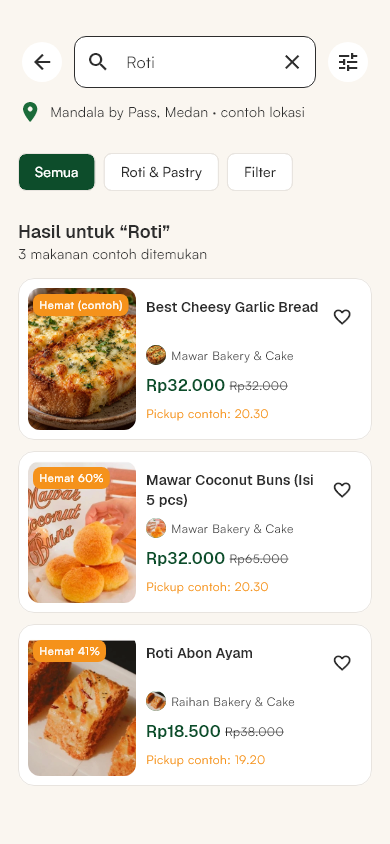
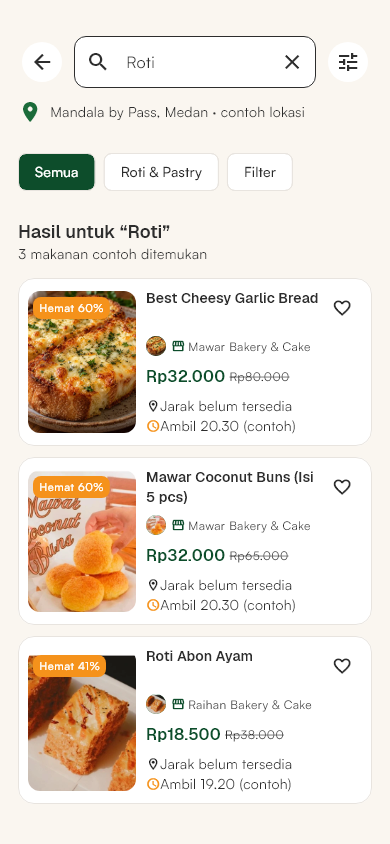
fix(discovery): address search review feedback

diff --git a/app/lib/features/discovery/search_page.dart b/app/lib/features/discovery/search_page.dart
@@ -18,6 +18,8 @@ const _badgeTopInset = 6.0;
 const _favoriteIconSize = 20.0;
 const _merchantAvatarRadius = 10.0;
 const _priceGap = 4.0;
+const _recommendationCount = 2;
+const _recommendationImageSize = 48.0;
 
 /// Search and filter preview over local listing examples.
 class SearchPage extends StatefulWidget {
@@ -34,6 +36,7 @@ class SearchPage extends StatefulWidget {
 class _SearchPageState extends State<SearchPage> {
   final TextEditingController _controller = TextEditingController();
   final _favorites = <String>{};
+  final _searchFocus = FocusNode();
   String _query = '';
   String _category = 'Semua';
   int? _minimum;
@@ -50,6 +53,7 @@ class _SearchPageState extends State<SearchPage> {
   @override
   void dispose() {
     _controller.dispose();
+    _searchFocus.dispose();
     super.dispose();
   }
 
@@ -104,6 +108,15 @@ class _SearchPageState extends State<SearchPage> {
     Navigator.pop(context);
   }
 
+  void _resetFilters() => setState(() {
+    _category = 'Semua';
+    _minimum = null;
+    _maximum = null;
+    _lowestPriceFirst = false;
+  });
+
+  void _editSearch() => _searchFocus.requestFocus();
+
   void _toggleFavorite(String id) => setState(
     () => _favorites.contains(id) ? _favorites.remove(id) : _favorites.add(id),
   );
@@ -120,6 +133,7 @@ class _SearchPageState extends State<SearchPage> {
           children: [
             _SearchBar(
               controller: _controller,
+              focusNode: _searchFocus,
               onChanged: (value) => setState(() => _query = value.trim()),
               onFilter: _openFilters,
             ),
@@ -140,6 +154,8 @@ class _SearchPageState extends State<SearchPage> {
             const SizedBox(height: 24),
             if (results.isEmpty)
               _EmptySearch(
+                onEditSearch: _editSearch,
+                onResetFilters: _resetFilters,
                 onSuggestion: (query) {
                   _controller.text = query;
                   setState(() => _query = query);
@@ -171,11 +187,13 @@ class _SearchPageState extends State<SearchPage> {
 class _SearchBar extends StatelessWidget {
   const new({
     required this.controller,
+    required this.focusNode,
     required this.onChanged,
     required this.onFilter,
   });
 
   final TextEditingController controller;
+  final FocusNode focusNode;
   final ValueChanged<String> onChanged;
   final VoidCallback onFilter;
 
@@ -195,6 +213,7 @@ class _SearchBar extends StatelessWidget {
       Expanded(
         child: TextField(
           controller: controller,
+          focusNode: focusNode,
           onChanged: onChanged,
           textInputAction: TextInputAction.search,
           decoration: InputDecoration(
@@ -389,6 +408,12 @@ class _SearchResultInfo extends StatelessWidget {
             backgroundImage: AssetImage(food.image),
           ),
           const SizedBox(width: 5),
+          const Icon(
+            Icons.storefront_outlined,
+            size: 14,
+            color: PanganKitaColors.brandPrimaryStrong,
+          ),
+          const SizedBox(width: 3),
           Expanded(
             child: Text(
               food.merchant,
@@ -417,51 +442,107 @@ class _SearchResultInfo extends StatelessWidget {
         ],
       ),
       const SizedBox(height: 8),
-      Text(
-        'Pickup contoh: ${food.pickupTime}',
-        style: Theme.of(context).textTheme.bodySmall
-            ?.copyWith(color: PanganKitaColors.brandAccent),
+      _SearchPickupMeta(pickupTime: food.pickupTime),
+    ],
+  );
+}
+
+class _SearchPickupMeta extends StatelessWidget {
+  const new({required this.pickupTime});
+
+  final String pickupTime;
+
+  @override
+  Widget build(BuildContext context) => Column(
+    children: [
+      const Row(
+        children: [
+          Icon(Icons.location_on_outlined, size: 14),
+          Expanded(child: Text('Jarak belum tersedia')),
+        ],
+      ),
+      Row(
+        children: [
+          const Icon(
+            Icons.schedule,
+            size: 14,
+            color: PanganKitaColors.brandAccent,
+          ),
+          Expanded(child: Text('Ambil $pickupTime (contoh)')),
+        ],
       ),
     ],
   );
 }
 
 class _EmptySearch extends StatelessWidget {
-  const new({required this.onSuggestion});
+  const new({
+    required this.onSuggestion,
+    required this.onEditSearch,
+    required this.onResetFilters,
+  });
 
   final ValueChanged<String> onSuggestion;
+  final VoidCallback onEditSearch;
+  final VoidCallback onResetFilters;
 
   @override
   Widget build(BuildContext context) => Column(
+    crossAxisAlignment: CrossAxisAlignment.stretch,
     children: [
-      const SizedBox(height: 55),
-      const CircleAvatar(
-        radius: 65,
-        backgroundColor: PanganKitaColors.savingsSurface,
-        child: Icon(
-          Icons.search,
-          size: 70,
-          color: PanganKitaColors.brandPrimaryStrong,
+      const SizedBox(height: 35),
+      const Center(
+        child: CircleAvatar(
+          radius: 55,
+          backgroundColor: PanganKitaColors.savingsSurface,
+          child: Icon(
+            Icons.search,
+            size: 60,
+            color: PanganKitaColors.brandPrimaryStrong,
+          ),
         ),
       ),
-      const SizedBox(height: 20),
+      const SizedBox(height: 16),
       Text(
         'Belum ketemu makananmu',
+        textAlign: TextAlign.center,
         style: Theme.of(context).textTheme.headlineSmall,
       ),
-      const Text('Coba kata kunci lain dari contoh makanan yang tersedia.'),
-      const SizedBox(height: 26),
-      const Text('Coba cari'),
-      Wrap(
-        spacing: _chipGap,
+      const Text(
+        'Coba kata kunci lain dari contoh makanan yang tersedia.',
+        textAlign: TextAlign.center,
+      ),
+      const SizedBox(height: 16),
+      Row(
         children: [
-          for (final query in ['Roti', 'Nasi', 'Ayam'])
-            ActionChip(
-              label: Text(query),
-              onPressed: () => onSuggestion(query),
+          Expanded(
+            child: OutlinedButton(
+              onPressed: onEditSearch,
+              child: const Text('Ubah Pencarian'),
             ),
+          ),
+          const SizedBox(width: 8),
+          Expanded(
+            child: TextButton(
+              onPressed: onResetFilters,
+              child: const Text('Reset Filter'),
+            ),
+          ),
         ],
       ),
+      const SizedBox(height: 18),
+      Text('Mungkin Kamu Suka', style: Theme.of(context).textTheme.titleLarge),
+      for (final food in DemoFood.examples.take(_recommendationCount))
+        ListTile(
+          contentPadding: EdgeInsets.zero,
+          leading: SizedBox.square(
+            dimension: _recommendationImageSize,
+            child: Image.asset(food.image, fit: BoxFit.cover),
+          ),
+          title: Text(food.title, maxLines: 2, overflow: TextOverflow.ellipsis),
+          subtitle: Text(food.price),
+          onTap: () => onSuggestion(food.title),
+        ),
     ],
   );
 }
@@ -516,6 +597,8 @@ class _SearchFiltersState extends State<_SearchFilters> {
     final max = int.tryParse(_maximum.text.trim());
     if ((_minimum.text.isNotEmpty && min == null) ||
         (_maximum.text.isNotEmpty && max == null) ||
+        (min != null && min < 0) ||
+        (max != null && max < 0) ||
         (min != null && max != null && min > max)) {
       setState(() => _error = 'Masukkan rentang harga yang valid.');
       return;

diff --git a/app/test/search_page_test.dart b/app/test/search_page_test.dart
@@ -46,7 +46,9 @@ void main() {
     expect(find.text('Hasil untuk “Roti”'), findsOneWidget);
   });
 
-  testWidgets('empty search offers local suggestions', (tester) async {
+  testWidgets('empty search offers actions and recommendations', (
+    tester,
+  ) async {
     await tester.pumpWidget(
       MaterialApp(
         theme: PanganKitaTheme.light,
@@ -55,9 +57,23 @@ void main() {
     );
     await tester.pumpAndSettle();
     expect(find.text('Belum ketemu makananmu'), findsOneWidget);
-    await tester.tap(find.text('Roti'));
+    expect(find.text('Ubah Pencarian'), findsOneWidget);
+    expect(find.text('Reset Filter'), findsOneWidget);
+    expect(find.text('Mungkin Kamu Suka'), findsOneWidget);
+    await tester.tap(find.text('Ubah Pencarian'));
     await tester.pumpAndSettle();
-    expect(find.text('Hasil untuk “Roti”'), findsOneWidget);
+    expect(
+      tester
+          .widget<TextField>(find.byType(TextField).first)
+          .focusNode
+          ?.hasFocus,
+      isTrue,
+    );
+    tester.testTextInput.hide();
+    await tester.ensureVisible(find.text('Mawar Coconut Buns (Isi 5 pcs)'));
+    await tester.tap(find.text('Mawar Coconut Buns (Isi 5 pcs)'));
+    await tester.pumpAndSettle();
+    expect(find.text('1 makanan contoh ditemukan'), findsOneWidget);
   });
 
   testWidgets('bakery search result opens its product example', (tester) async {
@@ -104,6 +120,71 @@ void main() {
     await tester.tap(find.text('Tampilkan Hasil'));
     await tester.pumpAndSettle();
     expect(find.text('3 makanan contoh ditemukan'), findsOneWidget);
+  });
+
+  testWidgets('price filter rejects negative and reversed ranges', (
+    tester,
+  ) async {
+    tester.view.devicePixelRatio = 1;
+    tester.view.physicalSize = const Size(390, 844);
+    addTearDown(tester.view.resetPhysicalSize);
+    addTearDown(tester.view.resetDevicePixelRatio);
+    await tester.pumpWidget(
+      MaterialApp(
+        theme: PanganKitaTheme.light,
+        home: const SearchPage(initialQuery: 'Roti'),
+      ),
+    );
+    await tester.tap(find.byTooltip('Filter pencarian'));
+    await tester.pumpAndSettle();
+    final minimum = find.byType(TextField).at(1);
+    final maximum = find.byType(TextField).at(2);
+    await tester.enterText(minimum, '-1');
+    await tester.ensureVisible(find.text('Tampilkan Hasil'));
+    await tester.tap(find.text('Tampilkan Hasil'));
+    await tester.pumpAndSettle();
+    expect(find.text('Masukkan rentang harga yang valid.'), findsOneWidget);
+    await tester.enterText(minimum, '10000');
+    await tester.enterText(maximum, '-5');
+    await tester.tap(find.text('Tampilkan Hasil'));
+    await tester.pumpAndSettle();
+    expect(find.text('Masukkan rentang harga yang valid.'), findsOneWidget);
+    await tester.enterText(minimum, '50000');
+    await tester.enterText(maximum, '10000');
+    await tester.tap(find.text('Tampilkan Hasil'));
+    await tester.pumpAndSettle();
+    expect(find.text('Masukkan rentang harga yang valid.'), findsOneWidget);
+    await tester.enterText(minimum, '10000');
+    await tester.enterText(maximum, '50000');
+    await tester.tap(find.text('Tampilkan Hasil'));
+    await tester.pumpAndSettle();
+    expect(find.text('Filter Pencarian'), findsNothing);
+  });
+
+  testWidgets('empty result reset restores locally filtered cards', (
+    tester,
+  ) async {
+    tester.view.devicePixelRatio = 1;
+    tester.view.physicalSize = const Size(390, 844);
+    addTearDown(tester.view.resetPhysicalSize);
+    addTearDown(tester.view.resetDevicePixelRatio);
+    await tester.pumpWidget(
+      MaterialApp(
+        theme: PanganKitaTheme.light,
+        home: const SearchPage(initialQuery: 'Roti'),
+      ),
+    );
+    await tester.tap(find.byTooltip('Filter pencarian'));
+    await tester.pumpAndSettle();
+    await tester.enterText(find.byType(TextField).at(1), '90000');
+    await tester.ensureVisible(find.text('Tampilkan Hasil'));
+    await tester.tap(find.text('Tampilkan Hasil'));
+    await tester.pumpAndSettle();
+    expect(find.text('Belum ketemu makananmu'), findsOneWidget);
+    await tester.tap(find.text('Reset Filter'));
+    await tester.pumpAndSettle();
+    expect(find.text('3 makanan contoh ditemukan'), findsOneWidget);
+    expect(find.text('Jarak belum tersedia'), findsWidgets);
   });
 
   for (final width in [320.0, 360.0, 390.0, 412.0]) {

diff --git a/app/lib/features/discovery/demo_food.dart b/app/lib/features/discovery/demo_food.dart
@@ -98,9 +98,9 @@ class DemoFood {
     pickupAddress: 'Mandala by Pass, Medan',
     title: 'Best Cheesy Garlic Bread',
     rating: '4.8 (contoh)',
-    saving: 'Hemat (contoh)',
+    saving: 'Hemat 60%',
     priceRupiah: 32000,
-    original: 'Rp32.000',
+    original: 'Rp80.000',
     pickupTime: '20.30',
     distance: 'Belum tersedia',
     stock: 'Stok contoh',

diff --git a/docs/IMPLEMENTATION.md b/docs/IMPLEMENTATION.md
@@ -68,8 +68,11 @@ The Notifications bottom tab opens `/notifications`, a filterable, explicitly
 labeled visual preview. Its read markers change only in local widget state;
 there is no push delivery, persisted notification, or actual order event.
 Submitting Home search opens `/search`, which filters local example foods.
-Category, price range, and price order work locally; distance and open-store
-filters remain unavailable without live location or merchant hours.
+Category, nonnegative price range, and price order work locally; invalid and
+reversed price ranges are rejected. Empty results offer a search edit action,
+filter reset, and example recommendations. Result cards label distance as
+unavailable and pickup times as examples. Distance and open-store filters
+remain unavailable without live location or merchant hours.
 Tests cover the demo flows, responsive layouts, typography, and social artwork.
 
 Retained infrastructure: `app/android/`, Flutter/Dart package manifest and
